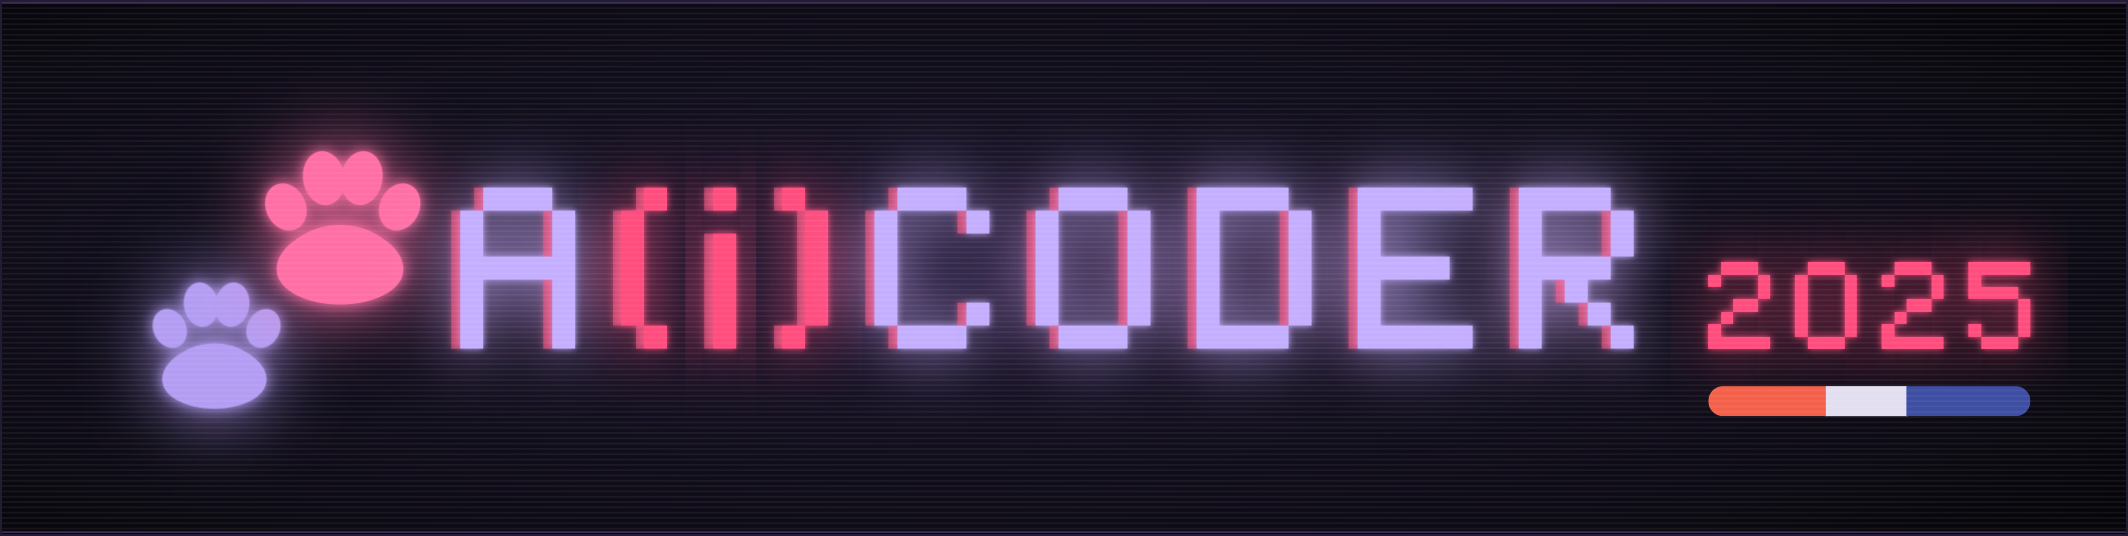
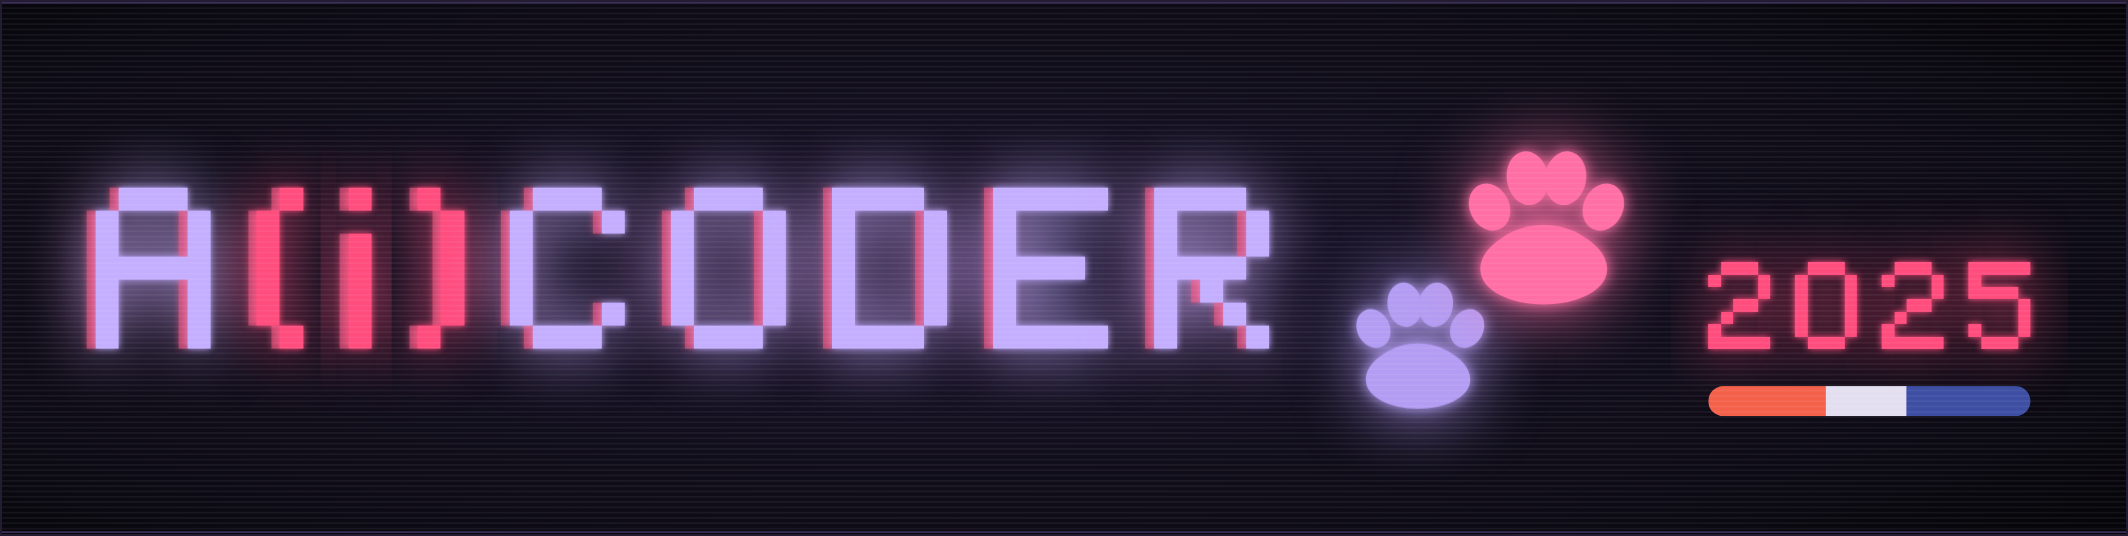
Trail the paw prints after CODER, and bring the neon flicker back into the app as a boot splash
The mark's two paws now walk up-right past the wordmark instead of into it from the
left, reserved in lockupGeometry the same way the year mark already was. D1/D2 stay
out of compact in-app spots (too small below their own 240/280px minimum) but get a
real home in design-lab/starter's boot splash, where -bare sits directly on the app's
own --bg with no painted ground to read as a sticker. Also fixes verify.mjs, which
was glob-checking every *.svg in exports/ and false-failing on the static Studio
marks that were never meant to animate.

Claude-Session: https://claude.ai/code/session_01CrUT3wtWVEqPyeyDnrqpj9

Changed region(s): [[0.031, 0.209, 0.7754, 0.8358]]

diff --git a/branding/aicoder-mockups.html b/branding/aicoder-mockups.html
@@ -896,6 +896,24 @@ const ACCENT_IDX = (() => {
   return Array.from({ length: close - open + 1 }, (_, k) => open + k);
 })();
 
+/* Two paws walking up-right, trailing off after the wordmark. Sized off
+   the plate height, independent of the glyph pixel unit. metrics() is
+   split out so lockupGeometry can reserve their width the same way it
+   already reserves the year mark's, before any drawing happens. */
+function pawClusterMetrics(H) {
+  const sTrail = H * 0.28, sLead = H * 0.34;
+  const leadX = Math.round(sTrail * 0.74);
+  return { sTrail, sLead, leadX, width: leadX + sLead };
+}
+function pawCluster(pawX, H, trail, lead) {
+  const { sTrail, sLead, leadX } = pawClusterMetrics(H);
+  const y1 = Math.round(H * 0.50);
+  return [
+    paw({ x: pawX, y: y1, size: sTrail, fill: trail }),
+    paw({ x: pawX + leadX, y: Math.round(H * 0.245), size: sLead, fill: lead })
+  ];
+}
+
 function lockupGeometry(W, H) {
   const px   = Math.max(2, Math.floor((W * 0.58) / UNIT_WORD));
   const yrPx = Math.max(1, Math.round(px / 2));
@@ -903,27 +921,17 @@ function lockupGeometry(W, H) {
   const pad  = Math.round(W * 0.045);
   const wmW  = UNIT_WORD * px;
   const yrW  = UNIT_YEAR * yrPx;
-  const wmX  = W - pad - yrW - gap - wmW;
+  const pawW = pawClusterMetrics(H).width;
+  const wmX  = W - pad - yrW - gap - pawW - gap - wmW;
   const wmY  = Math.round((H - GH * px) / 2);
-  const yrX  = wmX + wmW + gap;
+  const pawX = wmX + wmW + gap;
+  const yrX  = pawX + pawW + gap;
   const yrY  = wmY + GH * px - GH * yrPx;
   return {
-    px, yrPx, wmW, yrW, wmX, wmY, yrX, yrY,
+    px, yrPx, wmW, yrW, pawW, wmX, wmY, pawX, yrX, yrY,
     barY: yrY + GH * yrPx + Math.round(H * 0.07),
     barH: Math.max(4, Math.round(H * 0.055))
   };
-}
-
-/* Two paws walking up-right into the wordmark, sized off the plate
-   height and kept clear of wmX. Returned separately so each can be its
-   own tube. */
-function pawCluster(H, trail, lead) {
-  const sTrail = H * 0.28, sLead = H * 0.34;
-  const x1 = Math.round(H * 0.26), y1 = Math.round(H * 0.50);
-  return [
-    paw({ x: x1, y: y1, size: sTrail, fill: trail }),
-    paw({ x: x1 + Math.round(sTrail * 0.74), y: Math.round(H * 0.245), size: sLead, fill: lead })
-  ];
 }
 
 /* The wordmark as one tube per glyph, so letters strike independently.
@@ -1052,7 +1060,7 @@ function lockupInner(mode, groundKind, W, H, standalone = false) {
   const g = lockupGeometry(W, H);
   const gr = groundLayer(groundKind, W, H, mode);
   const bloom = uid("b"), pawB = uid("b");
-  const [trail, lead] = pawCluster(H, m.paws[0], m.paws[1]);
+  const [trail, lead] = pawCluster(g.pawX, H, m.paws[0], m.paws[1]);
   const k = H / 300;                       // bloom scales with the plate
   const bl = (v) => [v[0] * k, v[1] * k, v[2]];
 
@@ -1066,8 +1074,8 @@ function lockupInner(mode, groundKind, W, H, standalone = false) {
     ${standalone ? `<style>${NEON_CSS}</style>` : ""}
     <defs>${gr.defs}${bloomDef(bloom, ...bl(m.bloom))}${bloomDef(pawB, ...bl(m.pawBloom))}</defs>
     ${gr.back}
-    <g opacity="${m.pawOpacity}">${tube(20, trail, pawB)}${tube(21, lead, pawB)}</g>
     ${wordmarkTubes(WORDMARK, { px: g.px, x: g.wmX, y: g.wmY, filterId: bloom, seed: 0, layers, accent: ACCENT_IDX, accentFill: m.year })}
+    <g opacity="${m.pawOpacity}">${tube(20, trail, pawB)}${tube(21, lead, pawB)}</g>
     ${wordmarkTubes(YEARMARK, { px: g.yrPx, x: g.yrX, y: g.yrY, filterId: bloom, seed: 30, layers: [{ fill: m.year }] })}
     <g class="tube-b" style="${tubeVars(40)}">${bar({ x: g.yrX, y: g.barY, w: g.yrW, h: g.barH, white: m.barWhite })}</g>
     ${gr.front}

diff --git a/branding/src/mockups.template.html b/branding/src/mockups.template.html
@@ -896,6 +896,24 @@ const ACCENT_IDX = (() => {
   return Array.from({ length: close - open + 1 }, (_, k) => open + k);
 })();
 
+/* Two paws walking up-right, trailing off after the wordmark. Sized off
+   the plate height, independent of the glyph pixel unit. metrics() is
+   split out so lockupGeometry can reserve their width the same way it
+   already reserves the year mark's, before any drawing happens. */
+function pawClusterMetrics(H) {
+  const sTrail = H * 0.28, sLead = H * 0.34;
+  const leadX = Math.round(sTrail * 0.74);
+  return { sTrail, sLead, leadX, width: leadX + sLead };
+}
+function pawCluster(pawX, H, trail, lead) {
+  const { sTrail, sLead, leadX } = pawClusterMetrics(H);
+  const y1 = Math.round(H * 0.50);
+  return [
+    paw({ x: pawX, y: y1, size: sTrail, fill: trail }),
+    paw({ x: pawX + leadX, y: Math.round(H * 0.245), size: sLead, fill: lead })
+  ];
+}
+
 function lockupGeometry(W, H) {
   const px   = Math.max(2, Math.floor((W * 0.58) / UNIT_WORD));
   const yrPx = Math.max(1, Math.round(px / 2));
@@ -903,27 +921,17 @@ function lockupGeometry(W, H) {
   const pad  = Math.round(W * 0.045);
   const wmW  = UNIT_WORD * px;
   const yrW  = UNIT_YEAR * yrPx;
-  const wmX  = W - pad - yrW - gap - wmW;
+  const pawW = pawClusterMetrics(H).width;
+  const wmX  = W - pad - yrW - gap - pawW - gap - wmW;
   const wmY  = Math.round((H - GH * px) / 2);
-  const yrX  = wmX + wmW + gap;
+  const pawX = wmX + wmW + gap;
+  const yrX  = pawX + pawW + gap;
   const yrY  = wmY + GH * px - GH * yrPx;
   return {
-    px, yrPx, wmW, yrW, wmX, wmY, yrX, yrY,
+    px, yrPx, wmW, yrW, pawW, wmX, wmY, pawX, yrX, yrY,
     barY: yrY + GH * yrPx + Math.round(H * 0.07),
     barH: Math.max(4, Math.round(H * 0.055))
   };
-}
-
-/* Two paws walking up-right into the wordmark, sized off the plate
-   height and kept clear of wmX. Returned separately so each can be its
-   own tube. */
-function pawCluster(H, trail, lead) {
-  const sTrail = H * 0.28, sLead = H * 0.34;
-  const x1 = Math.round(H * 0.26), y1 = Math.round(H * 0.50);
-  return [
-    paw({ x: x1, y: y1, size: sTrail, fill: trail }),
-    paw({ x: x1 + Math.round(sTrail * 0.74), y: Math.round(H * 0.245), size: sLead, fill: lead })
-  ];
 }
 
 /* The wordmark as one tube per glyph, so letters strike independently.
@@ -1052,7 +1060,7 @@ function lockupInner(mode, groundKind, W, H, standalone = false) {
   const g = lockupGeometry(W, H);
   const gr = groundLayer(groundKind, W, H, mode);
   const bloom = uid("b"), pawB = uid("b");
-  const [trail, lead] = pawCluster(H, m.paws[0], m.paws[1]);
+  const [trail, lead] = pawCluster(g.pawX, H, m.paws[0], m.paws[1]);
   const k = H / 300;                       // bloom scales with the plate
   const bl = (v) => [v[0] * k, v[1] * k, v[2]];
 
@@ -1066,8 +1074,8 @@ function lockupInner(mode, groundKind, W, H, standalone = false) {
     ${standalone ? `<style>${NEON_CSS}</style>` : ""}
     <defs>${gr.defs}${bloomDef(bloom, ...bl(m.bloom))}${bloomDef(pawB, ...bl(m.pawBloom))}</defs>
     ${gr.back}
-    <g opacity="${m.pawOpacity}">${tube(20, trail, pawB)}${tube(21, lead, pawB)}</g>
     ${wordmarkTubes(WORDMARK, { px: g.px, x: g.wmX, y: g.wmY, filterId: bloom, seed: 0, layers, accent: ACCENT_IDX, accentFill: m.year })}
+    <g opacity="${m.pawOpacity}">${tube(20, trail, pawB)}${tube(21, lead, pawB)}</g>
     ${wordmarkTubes(YEARMARK, { px: g.yrPx, x: g.yrX, y: g.yrY, filterId: bloom, seed: 30, layers: [{ fill: m.year }] })}
     <g class="tube-b" style="${tubeVars(40)}">${bar({ x: g.yrX, y: g.barY, w: g.yrW, h: g.barH, white: m.barWhite })}</g>
     ${gr.front}

diff --git a/design-lab/starter/index.html b/design-lab/starter/index.html
@@ -71,6 +71,22 @@ body { margin:0; background: var(--bg); color: var(--text);
   -webkit-text-size-adjust:100%; }
 h1,h2,h3,p,ul { margin:0; } ul { list-style:none; padding:0; }
 
+/* Boot splash — the neon flicker mark (D1/D2, branding/README.md) lives here only.
+   It needs ≥240–280px to stay legible, which is why it isn't squeezed into .logo
+   or .aicoder-badge below; -bare has no painted ground so it sits directly on
+   var(--bg) and reads as part of the page, not a plate dropped on top of it. */
+#bootSplash { position:fixed; inset:0; z-index:9999; display:flex; align-items:center;
+  justify-content:center; background:var(--bg); transition:opacity .4s var(--ease); }
+#bootSplash.hide { opacity:0; pointer-events:none; }
+#bootSplash img { width:clamp(280px, 78vw, 420px); height:auto; display:block; }
+#bootSplash .splash-dark { display:none; }
+@media (prefers-color-scheme:dark) {
+  :root:not([data-theme="light"]) #bootSplash .splash-light { display:none; }
+  :root:not([data-theme="light"]) #bootSplash .splash-dark { display:block; }
+}
+:root[data-theme="dark"] #bootSplash .splash-light { display:none; }
+:root[data-theme="dark"] #bootSplash .splash-dark { display:block; }
+
 .topbar { position:sticky; top:0; z-index:20; background:var(--topbar-bg); backdrop-filter:blur(8px);
   border-bottom:1px solid var(--border); padding:12px 20px; display:flex; align-items:center; gap:12px; }
 .logo { width:30px; height:30px; border-radius:var(--r-sm); background:var(--accent); color:var(--on-accent);
@@ -153,6 +169,11 @@ td.num, th.num { text-align:right; font-variant-numeric:tabular-nums; }
 </style>
 </head>
 <body>
+
+<div id="bootSplash" aria-hidden="true">
+  <img class="splash-light" src="assets/d1-neon-arcade-bare.svg" alt="">
+  <img class="splash-dark" src="assets/d2-crt-night-bare.svg" alt="">
+</div>
 
 <header class="topbar">
   <div class="logo">A</div>
@@ -305,8 +326,27 @@ var APP_CORE = (function () {
     if (saved) root.setAttribute("data-theme", saved);   /* ไม่ stamp อะไรเลย = ตามระบบ */
   }
 
+  /* Boot splash holds for the neon warm-up (2.6s, see branding/README.md's
+     Flicker section) so the strike animation actually plays once, then fades.
+     Reduced motion gets a short hold instead of the full performance — the
+     SVG's own reduced-motion rule already leaves every tube lit, so there is
+     nothing left to wait for. */
+  function bootSplashOut() {
+    var el = document.getElementById("bootSplash");
+    if (!el) return;
+    var reduced = matchMedia("(prefers-reduced-motion: reduce)").matches;
+    /* Reduced motion also strips the CSS opacity transition (the app-wide
+       `* { transition:none }` rule below), so "hidden" is set on a fixed
+       timeout rather than transitionend, which would otherwise never fire. */
+    setTimeout(function () {
+      el.classList.add("hide");
+      setTimeout(function () { el.hidden = true; }, reduced ? 0 : 400);
+    }, reduced ? 300 : 2600);
+  }
+
   function init() {
     initTheme();
+    bootSplashOut();
     document.getElementById("themeBtn").addEventListener("click", function () {
       applyTheme(currentTheme() === "dark" ? "light" : "dark");
     });

diff --git a/branding/REVIEW-CHECKLIST.md b/branding/REVIEW-CHECKLIST.md
@@ -1,0 +1,59 @@
+# Branding review checklist
+
+Run this before shipping any change to the marks in this folder — a new
+placement, a template edit, a new direction. Referenced from
+[`README.md`](./README.md).
+
+## Automated — `tools/verify.mjs`
+
+Run `node branding/tools/build.mjs && node branding/tools/verify.mjs` and
+require exit code 0 before merging any change to `src/mockups.template.html`
+or `exports/`. It already covers:
+
+- every brand token resolves to a literal in each exported SVG (a standalone
+  file has no `:root` to read a CSS variable from)
+- every export carries its own `<style>` with all three flicker keyframes
+  and a `prefers-reduced-motion: reduce` rule
+- the SVGs actually animate when loaded as an `<img>`, not just inline
+- no external network requests from any export (CSP-safe by construction)
+- all three directions (D1/D2/D3) load without error
+- no horizontal scroll at 1280px or 390px
+- both light and dark themes resolve
+- reduced motion leaves every tube lit, not mid-flicker or blank
+
+If `tools/verify.mjs` can't run (no Playwright/Chromium on the machine — see
+`tools/build.mjs`'s header comment), the by-eye checks below are not a
+substitute for the animation/CSP/reduced-motion checks above. Run the full
+automated pass on a machine that has Chromium before calling a template
+change done.
+
+## By eye — things `verify.mjs` doesn't measure
+
+- **Ground match, measured, not eyeballed.** Before placing `-bare` on any
+  surface, compare that surface's actual `--bg` hex against the documented
+  threshold — D1 needs a ground lighter than `#E8E4F2`, D2 needs one darker
+  than `#1A1626` — component-by-component, not "looks about right." This is
+  the same discipline the Studio design system's own ST-04 rule requires for
+  its status colours; apply it here too.
+- **Width before placement.** D1 ≥240px wide, D2 ≥280px wide, D3 full
+  lockup ≥120px, D3 paw-only ≥16px. If the target spot is narrower than the
+  mark's own documented minimum, don't shrink the mark to fit — use a Studio
+  mark instead (see `branding/README.md`'s D4 section for which file).
+- **System fit.** Neon (D1/D2) is the voice for hero/splash/external
+  surfaces where the mark gets its own real estate. Studio (D4) is the voice
+  for dense, in-app UI. Don't mix both systems inside one dense surface —
+  pick the one that matches what's around it.
+- **Clear space.** 2 pixel units on all sides for D1/D2, 1 keyline width for
+  D3 — check nothing (text, another element) sits inside that margin.
+
+## Process
+
+- Edit `src/mockups.template.html` — never `aicoder-mockups.html` or
+  `exports/*` directly; both are generated and get overwritten on the next
+  build.
+- After a template edit, rebuild before eyeballing anything: direct edits to
+  `exports/*.svg` without rebuilding will silently drift from the template.
+- If a change moves or resizes an element inside the lockup (paws, year
+  mark, bar), re-check the "Minimum sizes" table in `README.md` — the
+  numbers there are a claim about the built output, not a fixed spec, and go
+  stale if the geometry changes without the doc changing with it.

diff --git a/branding/README.md b/branding/README.md
@@ -43,6 +43,25 @@ UI face; the icon does not, which is why the icon — never the wordmark — is 
 into a favicon. D1–D3 are unchanged and stay valid for apps still on the old system
 and for merch, where the neon is the point.
 
+**D1/D2 are also allowed back inside a Studio app — but only where they fit at their
+own size.** Decided 2026-08-28: the neon flicker is worth keeping, and `-bare` has no
+painted ground (checked in the exported SVGs — no `<rect>` at all), so it sits directly
+on `var(--bg)` and reads as part of the page rather than a sticker, as long as the
+surface is actually light-enough/dark-enough per the ground rule below. The catch is
+size — D1/D2 need ≥240/280px wide to stay legible, which rules out the compact spots
+(`.logo`, `.aicoder-badge`) a Studio app shell already uses; those stay mint. The fit
+that works is a **boot splash**: full-width real estate, and the `.tube` warm-up (a
+2.6s irregular strike-in, see Flicker below) already reads as "the app is starting up"
+without any redesign. `design-lab/starter/index.html`'s `#bootSplash` is the reference
+implementation. Outside boot/splash/hero/about-sized surfaces, use the Studio marks.
+
+The two paw prints now trail **after** the wordmark (between "CODER" and the year
+mark) instead of leading into it from the left — `pawCluster`/`lockupGeometry` in
+`src/mockups.template.html` reserve the paw cluster's width the same way the year
+mark's width was already reserved, so the plate-never-overflows guarantee below still
+holds. If you're picturing the old left-side paws from an earlier session, that's why
+it looks different now.
+
 D1/D2 share one horizontal lockup and differ only in treatment, so choosing
 between them is choosing a ground, not a logo. D3 is stacked because its job —
 fitting a square and surviving 16 px — makes the horizontal lockup impossible.
@@ -316,6 +335,15 @@ own keyframes and reduced-motion rule, **the SVGs actually animating inside an
 `<img>`**, no external requests, all three faces loaded, no horizontal scroll at
 1280 px or 390 px, both themes resolving, and reduced motion leaving every tube
 lit.
+
+---
+
+## Review checklist
+
+Before shipping any change here — new placement, new build, new direction — run
+through [`REVIEW-CHECKLIST.md`](./REVIEW-CHECKLIST.md). It's the automated
+`verify.mjs` coverage plus the by-eye checks (ground contrast, minimum width,
+neon-vs-Studio system fit) that this round's boot-splash work actually needed.
 
 ---
 

diff --git a/design-lab/starter/README.md b/design-lab/starter/README.md
@@ -15,11 +15,12 @@
 
 | ไฟล์ | เนื้อหา |
 |---|---|
-| `index.html` | token Supasit.A Studio ครบ (สว่าง + มืด 3 สถานะ) · component พื้นฐาน · โครง 9 โมดูล IIFE · ปุ่มสลับธีม · badge · CSP · helper กัน XSS |
+| `index.html` | token Supasit.A Studio ครบ (สว่าง + มืด 3 สถานะ) · component พื้นฐาน · โครง 9 โมดูล IIFE · ปุ่มสลับธีม · badge · boot splash นีออนกระพริบ (D1/D2) · CSP · helper กัน XSS |
 | `chart-theme.js` | ธีม Chart.js ที่อ่านสีจาก CSS variable — สลับธีมแล้วกราฟตามเอง |
 | `sw.js` | Service Worker cache-first |
 | `manifest.webmanifest` | PWA manifest |
 | `assets/icon.svg` | ไอคอนแอป (A(i)CODER ชุด Studio) |
+| `assets/d1-neon-arcade-bare.svg` · `assets/d2-crt-night-bare.svg` | นีออนกระพริบสำหรับ boot splash เท่านั้น (ดู `branding/README.md`) — ไม่มีพื้นหลังของตัวเอง ต้องวางบน `var(--bg)` เสมอ ห้ามเอาไปแทน `.logo`/`.aicoder-badge` เพราะเล็กกว่าขนาดต่ำสุดของมันมาก |
 
 ## กติกาที่ห้ามพลาด
 
